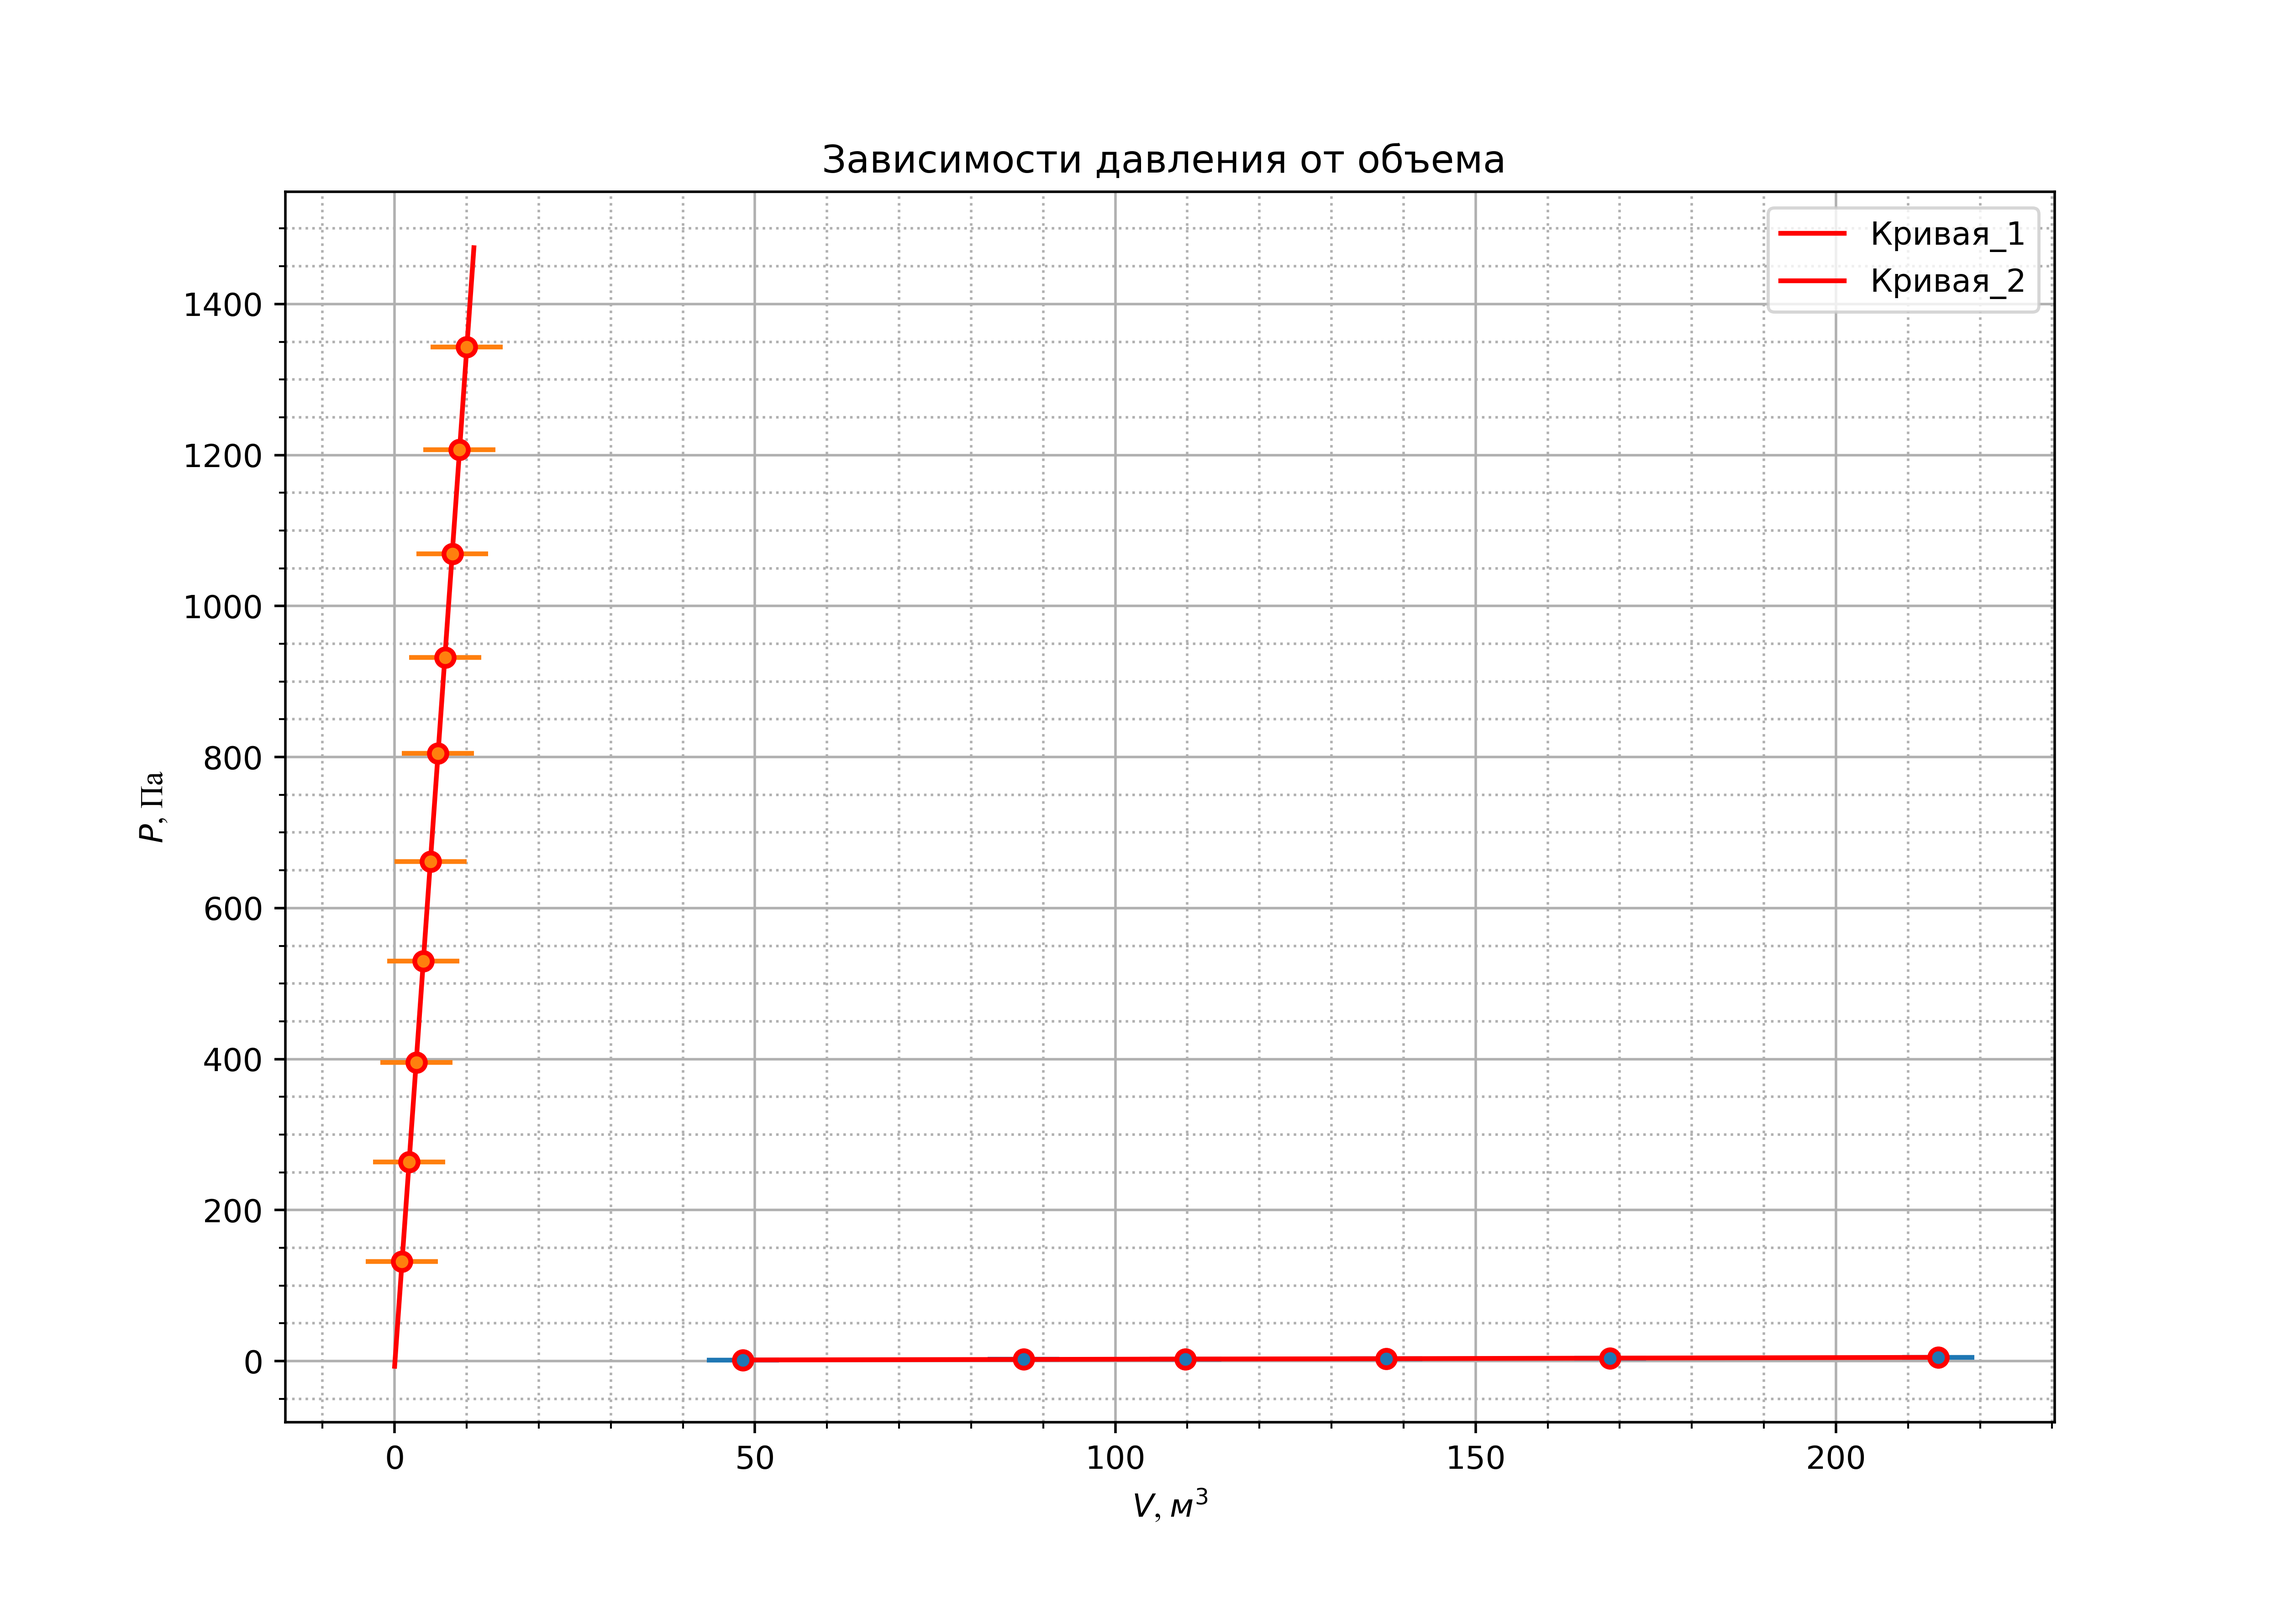
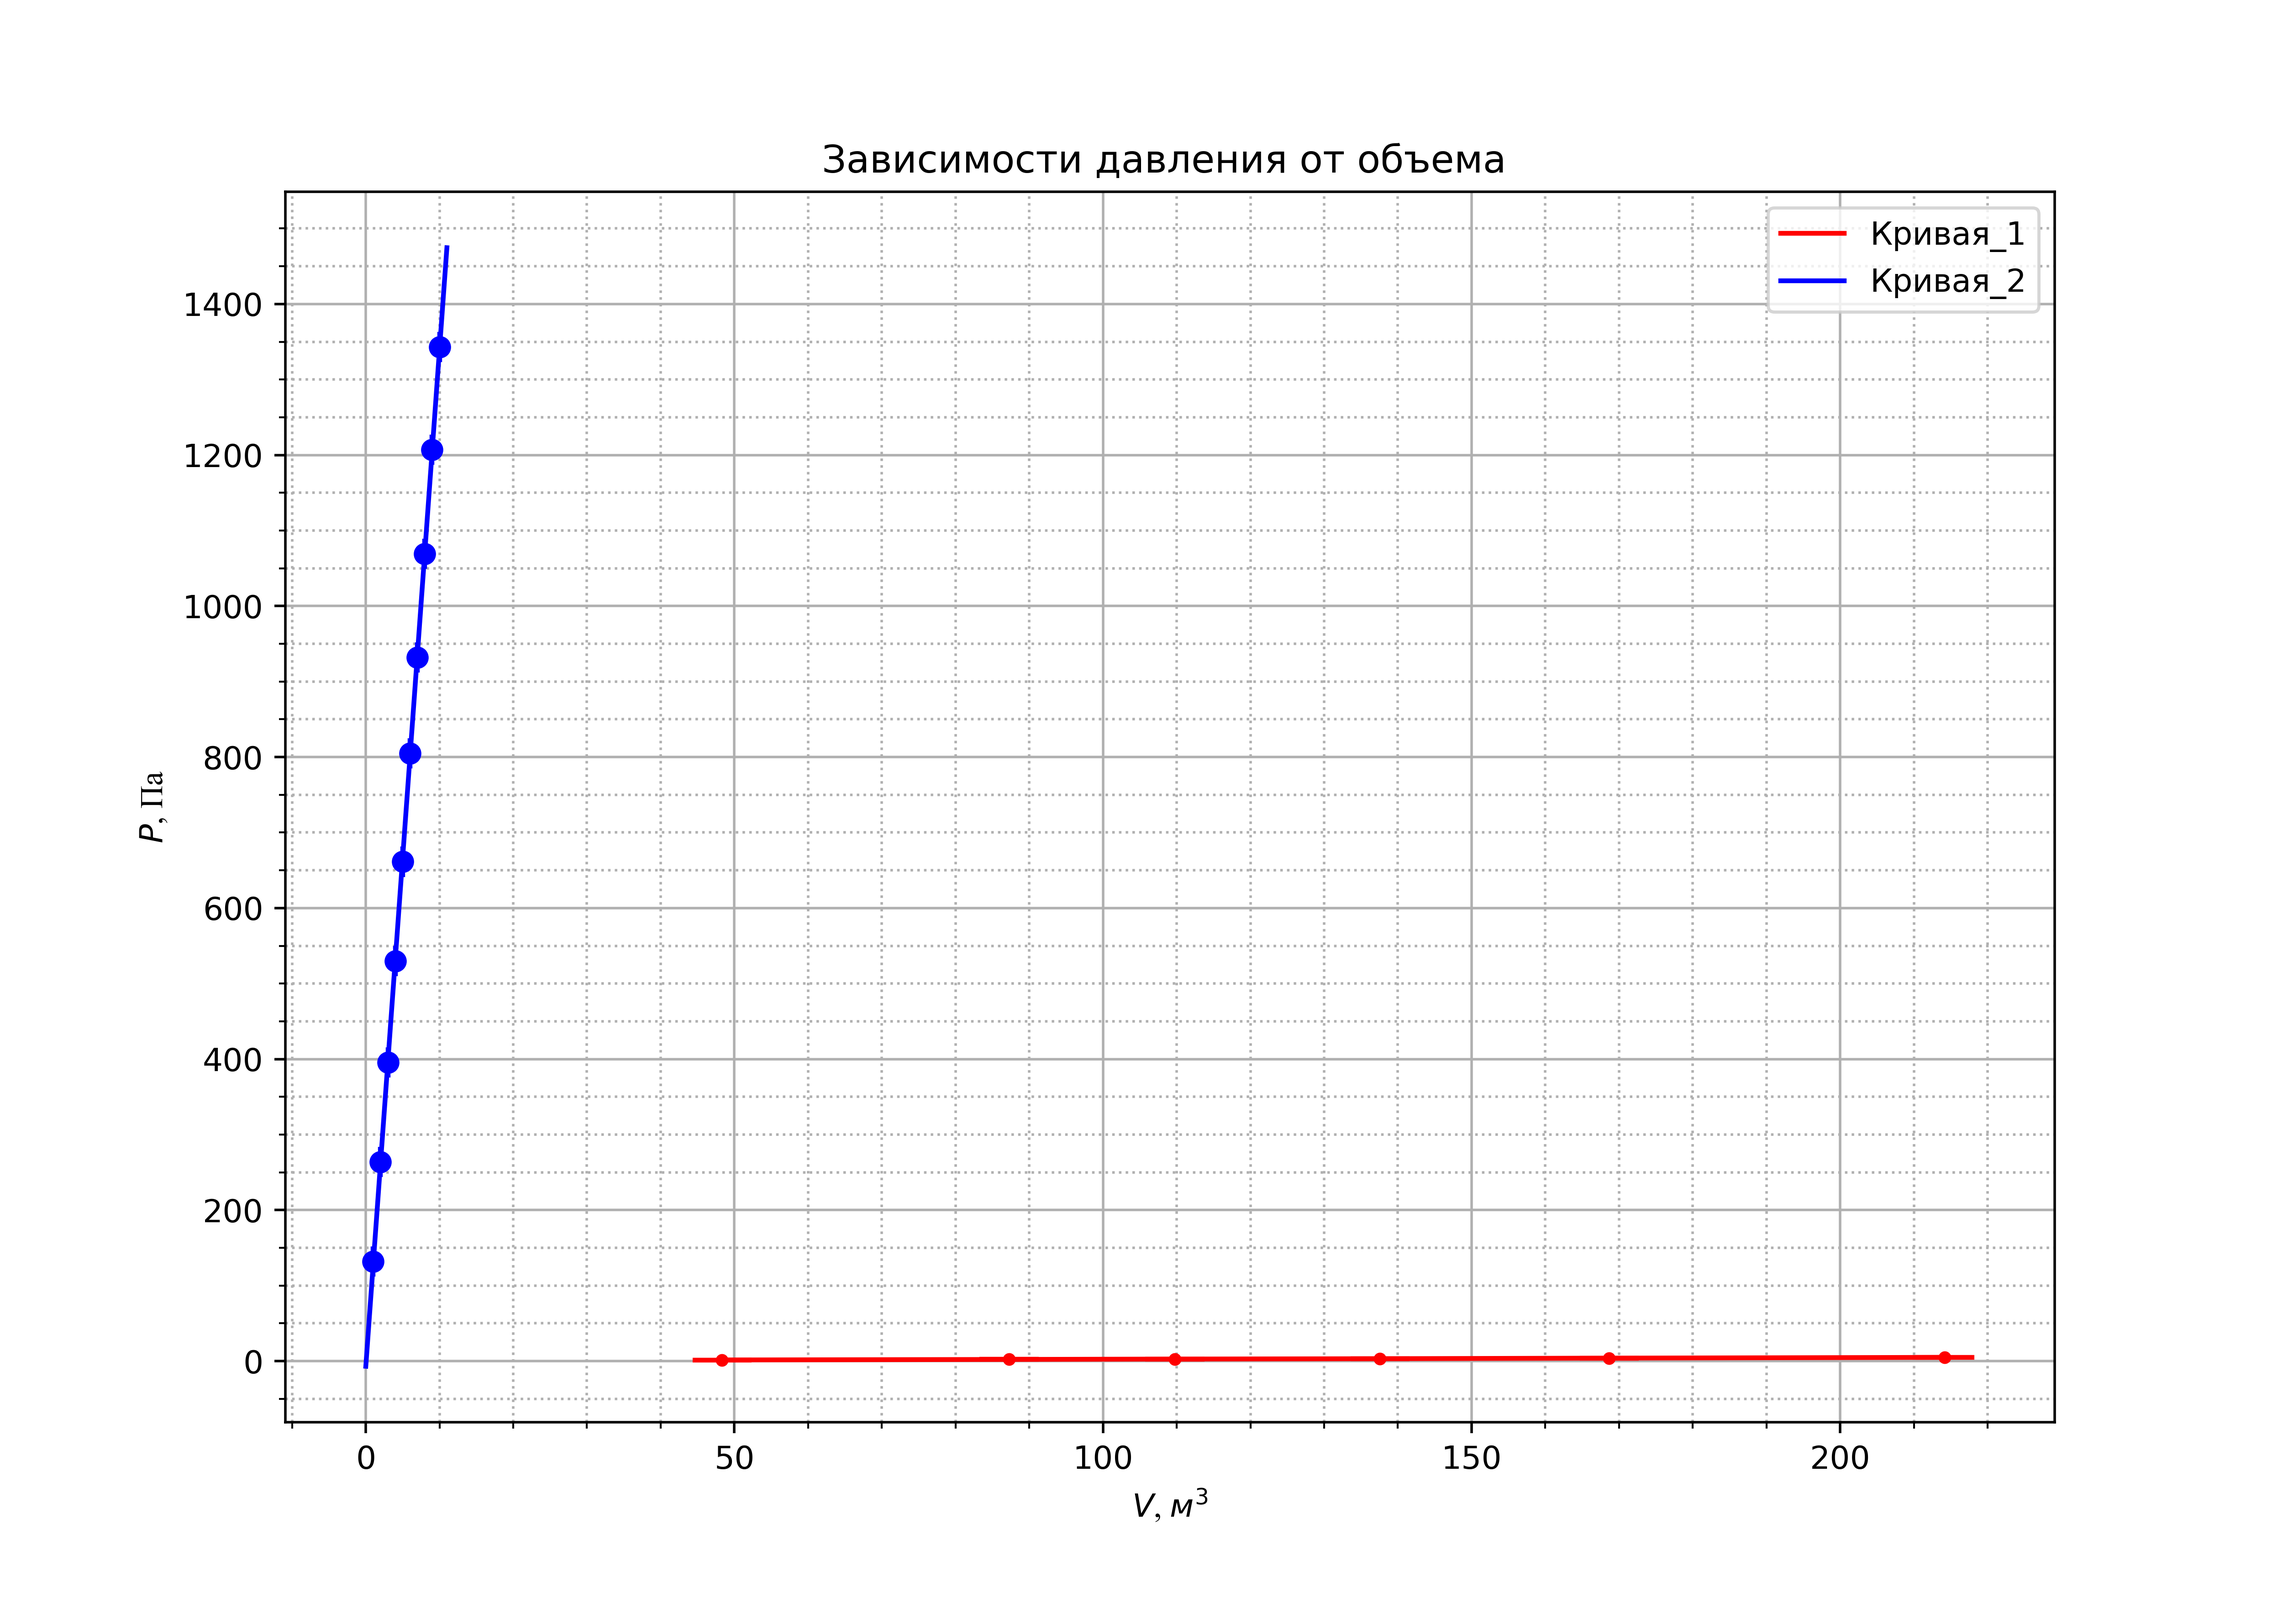
add diff colors for diff curves

diff --git a/plotter.py b/plotter.py
@@ -108,6 +108,13 @@ def interphase(name='example.xlsx', user_id='123'):
         'v',
         '>'
     ]
+    types_of_colors = [
+        'r',
+        'b',
+        'g',
+        'v',
+        'black'
+    ]
     sheet = []
     fl = True
     while fl:
@@ -129,7 +136,6 @@ def interphase(name='example.xlsx', user_id='123'):
 
     #print("read graph info\n")
     for i in range(1, n_graph + 1):
-        #i = 1
         j = 2 + 3 * (i - 1) + 1
         x, y, approx, deg, zero, x_err, y_err, curve_name = collect_data_from_sheet(sheet, j)
         #print(curve_name)
@@ -152,15 +158,15 @@ def interphase(name='example.xlsx', user_id='123'):
                     plt.ylim(p(np.floor(min(x) - 0.05 * dist)),
                              p(np.ceil(max(x) + 0.05 * dist)))
 
-            ax.plot(x_p, p(x_p), 'r-', label=curve_name)
+            ax.plot(x_p, p(x_p), c=types_of_colors[i-1], ls='-', label=curve_name)
         else:
-            ax.plot(x, y, 'r-', label=curve_name)
+            ax.plot(x, y, c=types_of_colors[i-1], ls='-', label=curve_name)
 
 
         #print("plotting\n")
         # plotting
-        ax.plot(x, y, 'r' + types_of_dots[1])
-        ax.errorbar(x, y, xerr=x_err, yerr=y_err, fmt='.')
+        ax.plot(x, y, c=types_of_colors[i-1], marker=types_of_dots[i-1], ls='')
+        ax.errorbar(x, y, xerr=x_err, yerr=y_err, fmt='', ls='', c=types_of_colors[i-1])
 
     plt.legend(loc='best')
 
@@ -170,7 +176,7 @@ def interphase(name='example.xlsx', user_id='123'):
     fig.savefig('files_to_send\\' + str(user_id) + '.pdf', dpi=500)
 
 
-#create_plot()
+create_plot()
 
 # TODO
 # zero - done
